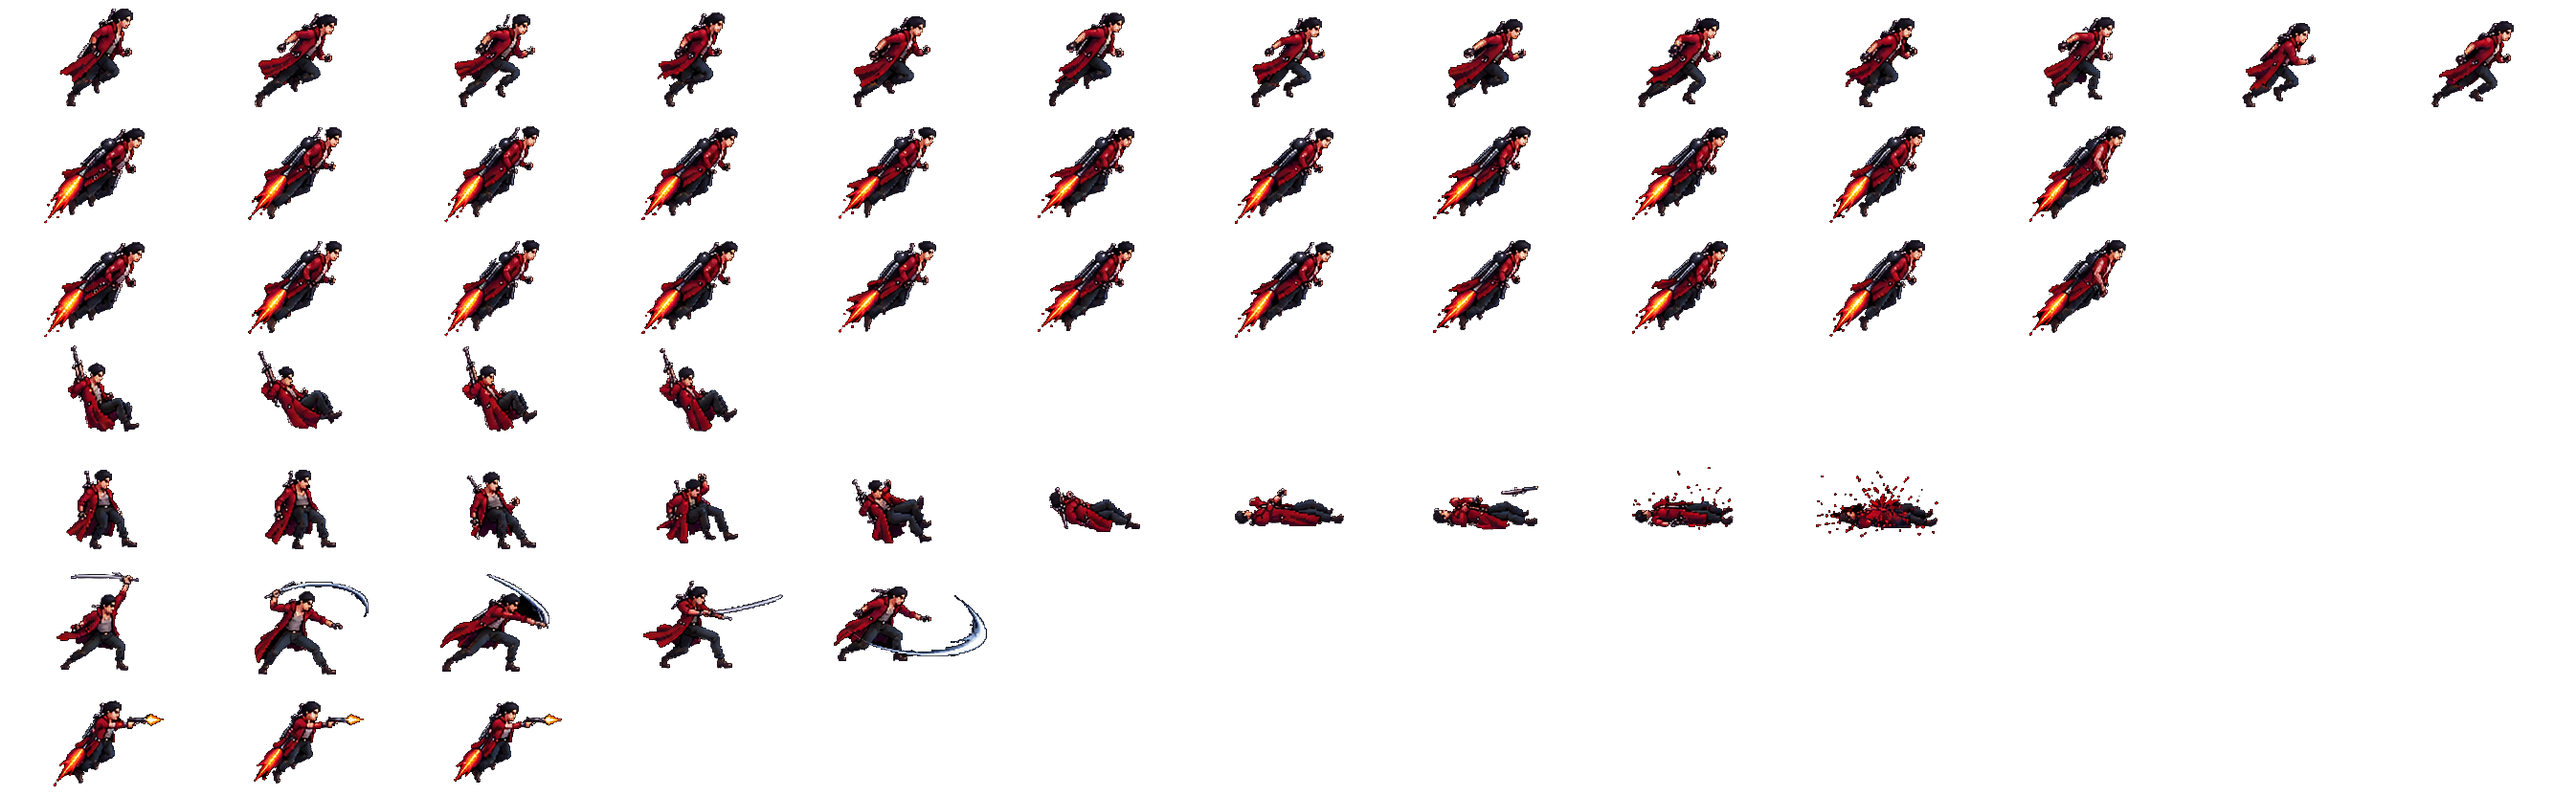
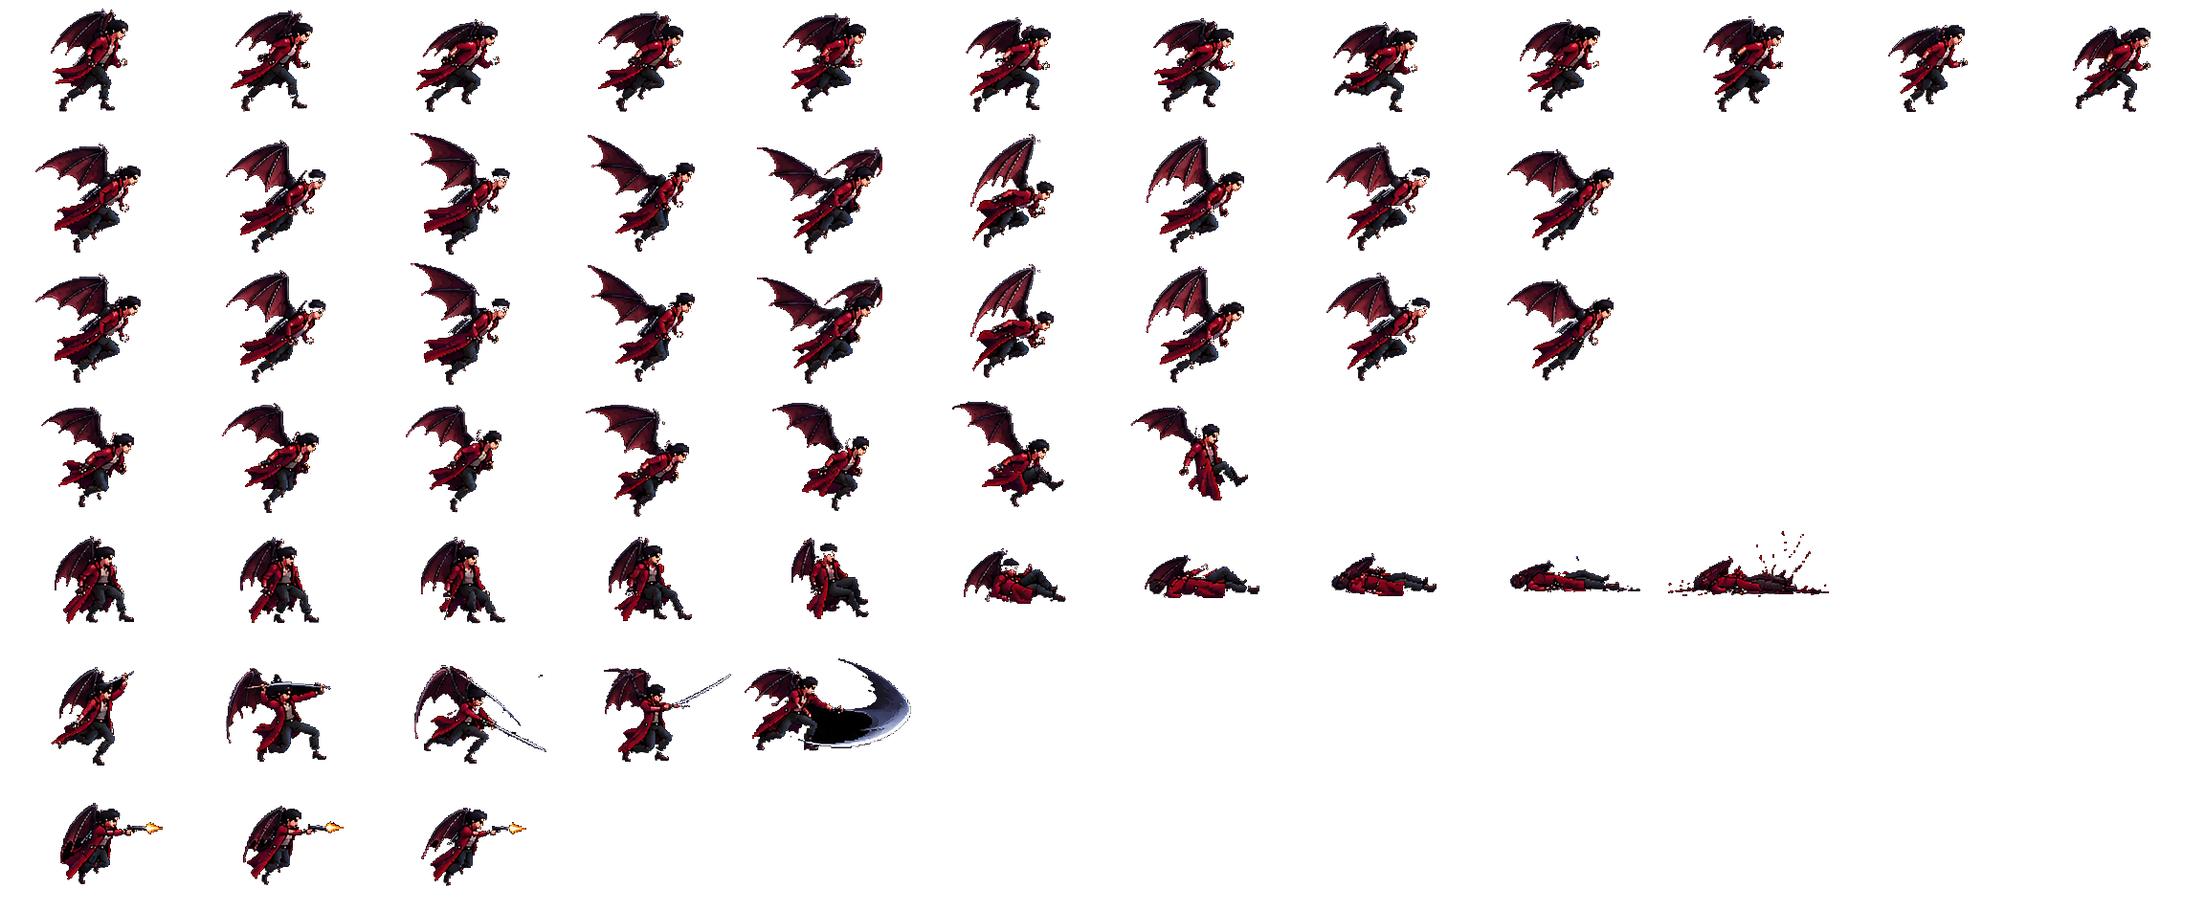
Slice Dante from Alex's winged sprite sheet

diff --git a/tools/slice_sheets.py b/tools/slice_sheets.py
@@ -55,6 +55,7 @@ TITAN_CUTS = ("seams", [200, 310, 420, 535, 645, 757, 867, 978, 1094, 1207, 1323
 # Sheet options:
 #   key_background: the "transparent" checkerboard is drawn in the picture, light greys become transparent
 #   key_black:      drawn on black, no transparency: black fades out (softly, the dark outlines stay)
+#   holes:          with key_black, points in pockets of background a frame closes off
 #   mirror:         frames face left in the game (they run toward the player)
 #   effects:        tell flames and smoke apart from the body; off when the body itself has those colours
 #   erase:          boxes cleared before slicing, for labels drawn over the rows
@@ -115,20 +116,22 @@ CHARACTERS = {
     # Her white hair would pass for smoke; a jump frame's head reaches the "JUMP" label's height
     # target.png: the glitch ring marking what her hack will hit
     }, {"effects": False, "erase": [(18, 358, 250, 382)], "crops": {"target.png": (24, 880, 132, 990)}}),
-    # Pixel art on black, from Alex. Two attacks: his sword on the ground, Ebony & Ivory in the air ("shoot")
-    "dante": ("../Samuride Files/Animation files/Dante/Dante_Sprite_Sheet.png", (106, 14, 160, 68), {
-        "run":    animation((80, 140, 1380, 252), 14, ground=True),
-        "rise":   animation((85, 278, 1515, 388), 12),
-        "hover":  animation((85, 278, 1515, 388), 12),
-        # The end of his fall row: leaning back, a gun up, the pose that loops well
-        "fall":   animation((105, 405, 1500, 528), 8, frames=[8, 9, 10, 11]),
-        "death":  animation((105, 915, 1480, 1012), 10, mode="once"),
+    # Pixel art on black, from Alex: demon wings instead of a jetpack. Two attacks: his sword on the ground,
+    # Ebony & Ivory in the air ("shoot")
+    "dante": ("../Samuride Files/Dante_Wings.png", (126, 14, 180, 68), {
+        "run":    animation((76, 140, 1390, 258), 14, ground=True),
+        # The last two frames of the row touch by a wing, and so do the last of his fall: left out
+        "rise":   animation((70, 264, 1510, 398), 12, frames=list(range(9))),
+        "hover":  animation((70, 264, 1510, 398), 12, frames=list(range(9))),
+        "fall":   animation((76, 408, 1500, 538), 8, frames=list(range(7))),
+        "death":  animation((95, 908, 1510, 1010), 10, mode="once"),
         # The wind-up, the swing and the big arc, shorter than the cooldown so a cut never restarts
-        "attack": animation((100, 785, 1375, 905), 18, mode="once", effects_ahead=True, frames=[2, 3, 4, 5, 9]),
-        # Each muzzle flash touches the next frame's jet flame: cut between them
-        "shoot":  animation((90, 668, 1445, 778), 18, mode="once",
-                            cuts=[90, 213, 342, 471, 591, 713, 833, 960, 1094, 1210, 1328, 1445], frames=[3, 4, 5]),
-    }, {"key_black": True}),
+        "attack": animation((95, 772, 1380, 902), 18, mode="once", effects_ahead=True, splits=[725, 852],
+                            frames=[2, 3, 4, 5, 9]),
+        # Each muzzle flash touches the next frame's wing: cut between them
+        "shoot":  animation((90, 660, 1430, 766), 18, mode="once",
+                            cuts=[90, 205, 335, 467, 592, 713, 837, 959, 1082, 1204, 1320, 1430], frames=[3, 4, 5]),
+    }, {"key_black": True, "holes": [(1310, 850)]}),
     # Wraith, from ChatGPT: sources/wraith/ holds the four pictures, stacked in sources/wraith.png at a third of
     # their size (run, flight, Blink and death; the Blink sheet's faint haze taken out), the portrait
     # shrunk to 300 px under them
@@ -394,14 +397,16 @@ def crop_frame(sheet, box, mask):
     return Image.fromarray(frame)
 
 
-def key_black(sheet):
+def key_black(sheet, holes=()):
     """The background (0 to 4 on Dante's sheet) goes; the dark pixels touching it fade with their
     brightness (outlines are 17 and up), the dark ones inside the character (his hair) stay. The
-    background is the black reaching the sheet's corner: black inside a body is part of it."""
+    background is the black reaching the sheet's corner: black inside a body is part of it, but for the
+    pockets at `holes` (the inside of a blade's arc closed by the body)."""
     px = np.array(sheet).astype(int)
     brightness = px[..., :3].max(axis=2)
     black = Image.fromarray(np.where(brightness <= 6, 255, 0).astype(np.uint8)).copy()  # writable
-    ImageDraw.floodfill(black, (0, 0), 128)
+    for seed in [(0, 0), *holes]:
+        ImageDraw.floodfill(black, seed, 128)
     background = np.array(black) == 128
     edge = background.copy()
     for dy in (-1, 0, 1):
@@ -438,7 +443,7 @@ def slice_character(name, sheet_name, portrait_box, animations, options, debug_d
     if options.get("key_background"):
         sheet = key_background(sheet)
     if options.get("key_black"):
-        sheet = key_black(sheet)
+        sheet = key_black(sheet, options.get("holes", ()))
     if options.get("min_alpha"):
         px = np.array(sheet)
         px[px[..., 3] < options["min_alpha"]] = 0

diff --git a/CHANGELOG.md b/CHANGELOG.md
@@ -22,6 +22,7 @@ taken from this file. Players on different versions can't play together: update 
   instead of a beam across the whole screen. Leave the row as before, or get past the bullet: Wraith can
   Blink through it.
 - Eddies have a new look, a spinning coin drawn by Alex.
+- Dante flies on demon wings instead of a jetpack: a new sprite sheet from Alex.
 
 ### Fixes
 - Adam Smasher's rockets fly on until they leave the screen instead of vanishing behind you.
